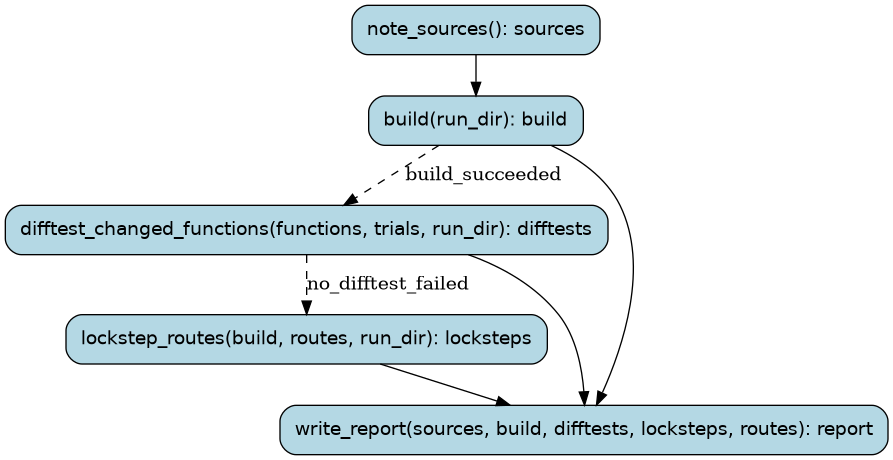
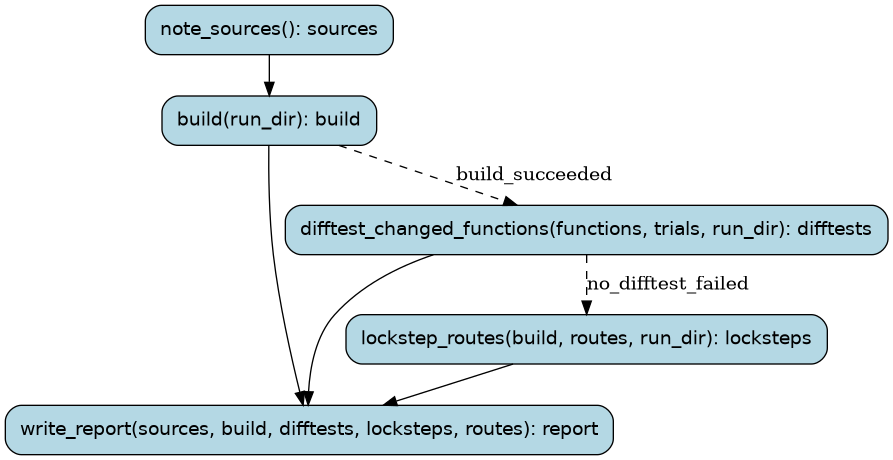
tools/wf: each step is a function from its own input model to its own output model
A step's signature is now its whole contract: the adapter reads the state
fields named like its input model's fields and writes those named like its
output model's, so there are no reads/writes string lists. Pydantic checks
the input before the step runs (lockstep takes `build: BuiltRom`, so a
BuildFailure is rejected) and the output after. Steps are plain Burr
FunctionBasedActions: the UI's Result panel shows each step's output and its
Code tab the step function. basedpyright strict: 0 errors.

Claude-Session: https://claude.ai/code/session_01PJysSiN3RBsaW9uUXgBjoF

diff --git a/tools/wf/wf/burr_typed.py b/tools/wf/wf/burr_typed.py
@@ -1,31 +1,42 @@
 """The one place that touches Burr's partly untyped API.
 
-A graph declares its steps and decisions as plain typed functions over its
-pydantic state, and wires them with `Transition`s that name the functions
-themselves:
+A step is a plain function from its own input model to its own output model;
+that signature is its whole contract:
 
-    workflow = Workflow[VerifyField, VerifyState](VerifyState, project="recomp-verify")
+    class LockstepInput(BaseModel):
+        build: BuiltRom
+        routes: tuple[Route, ...]
 
-    @workflow.step(reads=["run_dir"], writes=["build"])
-    def build(state: VerifyState) -> VerifyState: ...
+    class LockstepOutput(BaseModel):
+        locksteps: tuple[LockstepResult, ...]
 
-    Transition(after=build, go_to=lockstep_routes, when=build_succeeded)
+    @workflow.step
+    def lockstep_routes(given: LockstepInput) -> LockstepOutput: ...
 
-`reads`/`writes` take the graph's Literal of state field names, so a typo is a
-type error; Burr also checks them against the model when the module loads.
+The step reads the run-state fields named like its input model's fields and
+writes those named like its output model's. Pydantic validates the input
+before the step runs (a BuildFailure cannot reach a step that needs a
+BuiltRom) and the output after. The Burr UI shows the output as the step's
+Result, and the step's own source in its Code tab.
+
+Steps are wired with `Transition`s that name the step functions themselves;
+decisions are plain functions of the whole run state.
 """
 from collections.abc import Callable, Sequence
 from dataclasses import dataclass
 from pathlib import Path
-from typing import Generic, TypeVar, cast
+from typing import Generic, Never, TypeVar, cast, get_type_hints
 
 from burr.core import Application, ApplicationBuilder, Condition, State, default, serde
-from burr.core.action import action
+from burr.core.action import FunctionBasedAction
 from burr.integrations.pydantic import PydanticTypingSystem, model_from_state  # pyright: ignore[reportUnknownVariableType]
 from pydantic import BaseModel
 
 StateT = TypeVar("StateT", bound=BaseModel)
-FieldT = TypeVar("FieldT", bound=str)
+InputT = TypeVar("InputT", bound=BaseModel)
+OutputT = TypeVar("OutputT", bound=BaseModel)
+
+AnyStep = Callable[[Never], BaseModel]  # a step with any input and output model
 
 
 @serde.serialize.register(tuple)
@@ -36,46 +47,63 @@ def _serialize_tuple(value: tuple[object, ...], **options: object) -> list[objec
 
 
 @dataclass(frozen=True)
-class Transition(Generic[StateT]):
+class Transition:
     """After `after`, go to `go_to` if `when` holds. Transitions are tried in
     order; one without `when` is the fallback."""
-    after: Callable[[StateT], StateT]
-    go_to: Callable[[StateT], StateT]
-    when: Callable[[StateT], bool] | None = None
+    after: AnyStep
+    go_to: AnyStep
+    when: Callable[[Never], bool] | None = None
 
 
-class Workflow(Generic[FieldT, StateT]):
+class Workflow(Generic[StateT]):
     def __init__(self, state_type: type[StateT], project: str) -> None:
         self.state_type = state_type
         self.project = project
+        self._burr_actions: dict[AnyStep, FunctionBasedAction] = {}
 
-    def step(self, reads: Sequence[FieldT], writes: Sequence[FieldT]
-             ) -> Callable[[Callable[[StateT], StateT]], Callable[[StateT], StateT]]:
-        """A step reads some state fields and sets others (assigns them and returns the state)."""
-        register_with_burr = action.pydantic(reads=list(reads), writes=list(writes))  # pyright: ignore[reportUnknownMemberType, reportUnknownVariableType]
-        return cast(Callable[[Callable[[StateT], StateT]], Callable[[StateT], StateT]], register_with_burr)
+    def step(self, function: Callable[[InputT], OutputT]) -> Callable[[InputT], OutputT]:
+        """Register a step; its input and output models say what it reads and writes."""
+        input_type, output_type = _step_models(function)
+        reads = self._state_fields(function, input_type)
+        writes = self._state_fields(function, output_type)
 
-    def application(self, start: StateT, run_id: str, first: Callable[[StateT], StateT],
-                    transitions: Sequence[Transition[StateT]], tracked: bool = True) -> "TypedApplication[StateT]":
+        def run(state: State[BaseModel]) -> tuple[dict[str, object], State[BaseModel]]:
+            given = input_type.model_validate({field: state[field] for field in reads})  # pyright: ignore[reportAny]
+            produced = function(given)
+            written: dict[str, object] = {field: getattr(produced, field) for field in writes}  # pyright: ignore[reportAny]
+            return written, state.update(**written)
+
+        self._burr_actions[function] = FunctionBasedAction(run, reads, writes, originating_fn=function)
+        return function
+
+    def application(self, start: StateT, run_id: str, first: AnyStep,
+                    transitions: Sequence[Transition], tracked: bool = True) -> "TypedApplication[StateT]":
         """`tracked` runs show up in the Burr UI; an untracked one is only for drawing."""
-        steps = {transition.after.__name__: transition.after for transition in transitions}
-        steps |= {transition.go_to.__name__: transition.go_to for transition in transitions}
+        steps = {*(transition.after for transition in transitions), *(transition.go_to for transition in transitions)}
         builder = (
             ApplicationBuilder()
             .with_typing(PydanticTypingSystem(self.state_type))
             .with_state(start)  # pyright: ignore[reportUnknownMemberType]
-            .with_actions(**steps)  # pyright: ignore[reportUnknownMemberType]
+            .with_actions(**{_name(step): self._burr_actions[step] for step in steps})  # pyright: ignore[reportUnknownMemberType]
             .with_transitions(*(self._burr_transition(transition) for transition in transitions))
-            .with_entrypoint(first.__name__)
+            .with_entrypoint(_name(first))
             .with_identifiers(app_id=run_id)
         )
         if tracked:
             builder = builder.with_tracker("local", project=self.project)
         return TypedApplication(self.state_type, builder.build())
 
-    def _burr_transition(self, transition: Transition[StateT]) -> tuple[str, str, Condition]:
-        return (transition.after.__name__, transition.go_to.__name__,
-                default if transition.when is None else self._condition(transition.when))
+    def _state_fields(self, function: AnyStep, model: type[BaseModel]) -> list[str]:
+        fields = list(model.model_fields)
+        unknown = [field for field in fields if field not in self.state_type.model_fields]
+        if unknown:
+            raise TypeError(f"step {_name(function)}: {model.__name__} has fields {unknown} "
+                            f"that {self.state_type.__name__} does not")
+        return fields
+
+    def _burr_transition(self, transition: Transition) -> tuple[str, str, Condition]:
+        return (_name(transition.after), _name(transition.go_to),
+                default if transition.when is None else self._condition(cast(Callable[[StateT], bool], transition.when)))
 
     def _condition(self, test: Callable[[StateT], bool]) -> Condition:
         state_type = self.state_type
@@ -83,7 +111,7 @@ class Workflow(Generic[FieldT, StateT]):
         def resolve(state: State[BaseModel]) -> bool:
             return test(model_from_state(model=state_type, state=state))
 
-        return Condition(keys=list(state_type.model_fields), resolver=resolve, name=test.__name__)
+        return Condition(keys=list(state_type.model_fields), resolver=resolve, name=_name(test))
 
 
 class TypedApplication(Generic[StateT]):
@@ -91,10 +119,30 @@ class TypedApplication(Generic[StateT]):
         self.state_type = state_type
         self.application = application
 
-    def run_until_after(self, last: Callable[[StateT], StateT]) -> StateT:
-        _, _, final_state = self.application.run(halt_after=[last.__name__])  # pyright: ignore[reportUnknownMemberType, reportUnknownVariableType]
+    def run_until_after(self, last: AnyStep) -> StateT:
+        _, _, final_state = self.application.run(halt_after=[_name(last)])  # pyright: ignore[reportUnknownMemberType, reportUnknownVariableType]
         return model_from_state(model=self.state_type, state=final_state)
 
     def draw(self, path_without_extension: Path) -> None:
         self.application.visualize(output_file_path=str(path_without_extension), format="png",  # pyright: ignore[reportUnknownMemberType]
                                    include_conditions=True, include_state=True)
+
+
+def _step_models(function: Callable[[InputT], OutputT]) -> tuple[type[InputT], type[OutputT]]:
+    """The input and output models a step's signature names."""
+    hints = cast(dict[str, object], get_type_hints(function))
+    output_type = hints.pop("return", None)
+    if len(hints) != 1 or not _is_model(output_type):
+        raise TypeError(f"step {_name(function)} must take one pydantic model and return one")
+    input_type = next(iter(hints.values()))
+    if not _is_model(input_type):
+        raise TypeError(f"step {_name(function)} must take one pydantic model and return one")
+    return cast(type[InputT], input_type), cast(type[OutputT], output_type)
+
+
+def _is_model(hint: object) -> bool:
+    return isinstance(hint, type) and issubclass(hint, BaseModel)
+
+
+def _name(function: Callable[[Never], object]) -> str:
+    return function.__name__

diff --git a/tools/wf/wf/graphs/verify.py b/tools/wf/wf/graphs/verify.py
@@ -3,9 +3,8 @@ functions against their lifted originals, then replay recorded routes in
 lockstep with the original game (docs/PROCESS.md §3)."""
 from enum import Enum
 from pathlib import Path
-from typing import Literal
 
-from pydantic import BaseModel, ConfigDict
+from pydantic import BaseModel
 
 from wf.burr_typed import Transition, TypedApplication, Workflow
 from wf.repo import current_sources
@@ -42,7 +41,7 @@ def run_verify(start: "VerifyState", run_id: str) -> "VerifyReport":
     return final_state.report
 
 
-# ── state ──────────────────────────────────────────────────────────────
+# ── the run's state ────────────────────────────────────────────────────
 
 class Verdict(Enum):
     PASSED = "passed"
@@ -61,8 +60,7 @@ class VerifyReport(Result):
 
 
 class VerifyState(BaseModel):
-    model_config = ConfigDict(validate_assignment=True)
-
+    """Everything a verify run knows; each step sees only the part its input model names."""
     run_dir: Path
     functions: tuple[FunctionName, ...]
     routes: tuple[Route, ...]
@@ -74,74 +72,106 @@ class VerifyState(BaseModel):
     report: VerifyReport | None = None
 
 
-VerifyField = Literal["run_dir", "functions", "routes", "trials", "sources",
-                      "build", "difftests", "locksteps", "report"]
-
-workflow = Workflow[VerifyField, VerifyState](VerifyState, project=PROJECT)
+workflow = Workflow[VerifyState](VerifyState, project=PROJECT)
 
 
 # ── steps ──────────────────────────────────────────────────────────────
 
-@workflow.step(reads=[], writes=["sources"])
-def note_sources(state: VerifyState) -> VerifyState:
+class Nothing(Result):
+    pass
+
+
+class SourcesOutput(Result):
+    sources: SourceVersion
+
+
+@workflow.step
+def note_sources(given: Nothing) -> SourcesOutput:
     """Record which commit is being verified, and whether it has uncommitted changes."""
-    state.sources = current_sources()
-    return state
+    return SourcesOutput(sources=current_sources())
 
 
-@workflow.step(reads=["run_dir"], writes=["build"])
-def build(state: VerifyState) -> VerifyState:
+class BuildInput(Result):
+    run_dir: Path
+
+
+class BuildOutput(Result):
+    build: BuiltRom | BuildFailure
+
+
+@workflow.step
+def build(given: BuildInput) -> BuildOutput:
     """Build the port ROM into the workflow's own build directory."""
-    state.build = build_rom(state.run_dir)
-    return state
+    return BuildOutput(build=build_rom(given.run_dir))
 
 
-@workflow.step(reads=["functions", "trials", "run_dir"], writes=["difftests"])
-def difftest_changed_functions(state: VerifyState) -> VerifyState:
+class DifftestInput(Result):
+    functions: tuple[FunctionName, ...]
+    trials: int
+    run_dir: Path
+
+
+class DifftestOutput(Result):
+    difftests: tuple[DifftestResult, ...]
+
+
+@workflow.step
+def difftest_changed_functions(given: DifftestInput) -> DifftestOutput:
     """Compare each changed function with its lifted original on random inputs."""
-    state.difftests = run_difftest(state.functions, state.trials, state.run_dir)
-    return state
+    return DifftestOutput(difftests=run_difftest(given.functions, given.trials, given.run_dir))
 
 
-@workflow.step(reads=["build", "routes", "run_dir"], writes=["locksteps"])
-def lockstep_routes(state: VerifyState) -> VerifyState:
+class LockstepInput(Result):
+    build: BuiltRom  # only a successful build reaches this step
+    routes: tuple[Route, ...]
+    run_dir: Path
+
+
+class LockstepOutput(Result):
+    locksteps: tuple[LockstepResult, ...]
+
+
+@workflow.step
+def lockstep_routes(given: LockstepInput) -> LockstepOutput:
     """Replay each recorded route on the original game and the port side by side."""
-    state.locksteps = run_lockstep_routes(_built_rom(state).rom, state.routes, state.run_dir)
-    return state
+    return LockstepOutput(locksteps=run_lockstep_routes(given.build.rom, given.routes, given.run_dir))
 
 
-@workflow.step(reads=["sources", "build", "difftests", "locksteps", "routes"], writes=["report"])
-def write_report(state: VerifyState) -> VerifyState:
+class ReportInput(Result):
+    sources: SourceVersion
+    build: BuiltRom | BuildFailure
+    difftests: tuple[DifftestResult, ...]
+    locksteps: tuple[LockstepResult, ...]
+    routes: tuple[Route, ...]
+
+
+class ReportOutput(Result):
+    report: VerifyReport
+
+
+@workflow.step
+def write_report(given: ReportInput) -> ReportOutput:
     """Sum up what passed, what failed and what was never compared."""
-    if state.sources is None:
-        raise RuntimeError("write_report ran before note_sources")
-    state.report = VerifyReport(
-        sources=state.sources,
-        verdict=_verdict(state),
-        failed_functions=tuple(result.function for result in state.difftests
+    return ReportOutput(report=VerifyReport(
+        sources=given.sources,
+        verdict=_verdict(given),
+        failed_functions=tuple(result.function for result in given.difftests
                                if result.outcome is Outcome.FAILED),
-        unchecked_functions=tuple(result.function for result in state.difftests
+        unchecked_functions=tuple(result.function for result in given.difftests
                                   if result.outcome is Outcome.COMPARED_NOTHING),
-        failed_routes=tuple(result.route for result in state.locksteps if not result.passed),
-        routes_checked=tuple(result.route for result in state.locksteps),
-    )
-    return state
+        failed_routes=tuple(result.route for result in given.locksteps if not result.passed),
+        routes_checked=tuple(result.route for result in given.locksteps),
+    ))
 
 
-def _built_rom(state: VerifyState) -> BuiltRom:
-    if not isinstance(state.build, BuiltRom):
-        raise RuntimeError("lockstep_routes ran without a built ROM")
-    return state.build
-
-
-def _verdict(state: VerifyState) -> Verdict:
-    if not isinstance(state.build, BuiltRom):
+def _verdict(given: ReportInput) -> Verdict:
+    if isinstance(given.build, BuildFailure):
         return Verdict.BUILD_FAILED
-    difftest_failed = any(result.outcome is Outcome.FAILED for result in state.difftests)
-    lockstep_failed = any(not result.passed for result in state.locksteps)
-    if difftest_failed or lockstep_failed or len(state.locksteps) < len(state.routes):
+    difftest_failed = any(result.outcome is Outcome.FAILED for result in given.difftests)
+    lockstep_failed = any(not result.passed for result in given.locksteps)
+    if difftest_failed or lockstep_failed or len(given.locksteps) < len(given.routes):
         return Verdict.FAILED
-    if any(result.outcome is Outcome.COMPARED_NOTHING for result in state.difftests):
+    if any(result.outcome is Outcome.COMPARED_NOTHING for result in given.difftests):
         return Verdict.PASSED_WITH_UNCHECKED_FUNCTIONS
     return Verdict.PASSED
 
